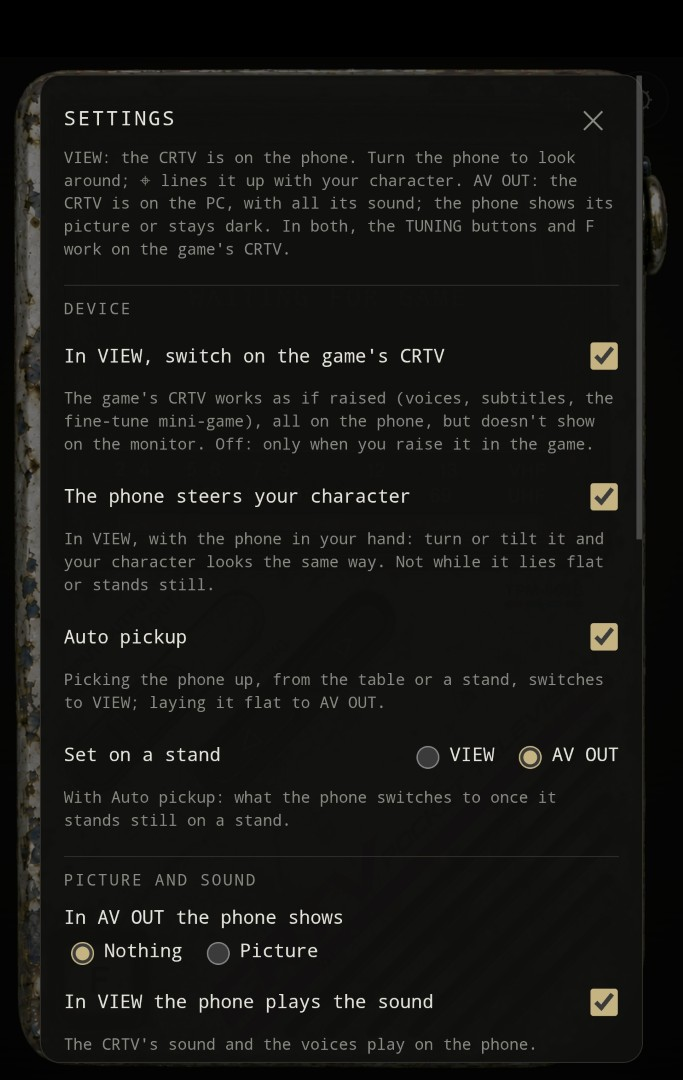
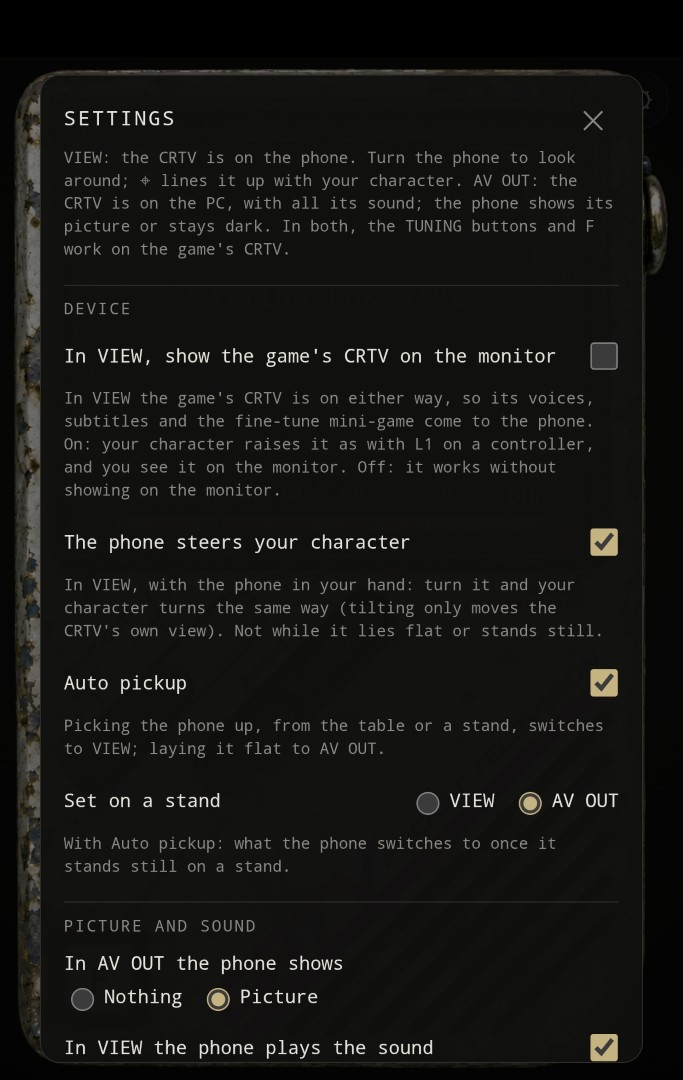
New settings screenshot as the third image; update README and troubleshooting for the sound and CRTV settings
Claude-Session: https://claude.ai/code/session_014ATbdhHixb4xMVyN4TaeB3

diff --git a/README.md b/README.md
@@ -19,6 +19,10 @@ Also on **[Nexus Mods](https://www.nexusmods.com/silenthilltownfall/mods/125)**,
   switched on, so the signals' voices, the subtitles and the fine-tune mini-game come to the phone. With this on,
   your character raises the CRTV as with L1 on a controller and you see it on the monitor; off, it works without
   showing.
+- **Sound:** in VIEW the phone plays the CRTV's sounds and the signals' voices (and their videos' sound), and with
+  **Silence it in the game** on, the game's copy of what the phone plays goes quiet, so nothing is heard twice.
+  Only what comes out of the CRTV moves to the phone: the story cutscenes' dialogue and music stay in the game.
+  The volume slider is the phone's own; at 0 the game plays its sound again.
 - **AV OUT:** the CRTV is on the PC, with all its sound; the phone mirrors the picture or stays dark, and its
   buttons still tune, and F saves / confirms the frequency.
 - **The phone steers your character** (optional, off by default): in VIEW, turning the phone turns your
@@ -26,15 +30,15 @@ Also on **[Nexus Mods](https://www.nexusmods.com/silenthilltownfall/mods/125)**,
   again and it activates automatically. Phone tilt still changes the scanner view, but does not take over
   Townfall's vertical game camera.
 - **Auto pickup** (optional): switches to VIEW when the phone is picked up (from the table or a stand) and to
-  AV OUT when it is laid flat; set on a stand, it goes to AV OUT (or stays in VIEW, as chosen).
+  AV OUT when it is laid flat; set on a stand, it goes to AV OUT by default (or stays in VIEW, as chosen).
 - **Pause:** in the game's pause menu, everything on the phone holds too.
 - Vibration for the buttons and nearby signals, and settings for every part of it.
 
 ## Screenshots
 
-| Settings | CRTV video | Monster scanner |
+| CRTV video | Monster scanner | Settings |
 | --- | --- | --- |
-| ![Townfall Companion settings](docs/images/settings.jpg) | ![CRTV video on the phone](docs/images/crtv-blue.jpg) | ![Monster scanner on the phone](docs/images/crtv-red.jpg) |
+| ![CRTV video on the phone](docs/images/crtv-blue.jpg) | ![Monster scanner on the phone](docs/images/crtv-red.jpg) | ![Townfall Companion settings](docs/images/settings.jpg) |
 
 ## The game's sound and videos
 
@@ -153,8 +157,8 @@ mod made too. UE4SS and Python stay; other mods may use them.
   networks? Your Wi-Fi set to *Private* in Windows? Use the address the window shows, not `127.0.0.1`.
 - **WAITING FOR GAME:** get into gameplay, and check that `ue4ss\UE4SS.log` has
   `[TF-COMPANION] Townfall Companion loaded`.
-- **No sound:** tap the phone once, and check the companion's window for "Game sounds unavailable" and what it
-  says to do (usually: vgmstream is missing).
+- **No sound:** tap the phone once, keep its screen on, and check the companion's window for "Game sounds
+  unavailable" and what it says to do (usually: vgmstream is missing).
 - **"Port 8790 is taken":** not an error; use the new address the window shows, or set a fixed port in
   `companion.ini`.
 - **After a game update:** UE4SS for Townfall may need an update, and possibly this mod.

diff --git a/docs/TROUBLESHOOTING.md b/docs/TROUBLESHOOTING.md
@@ -88,17 +88,26 @@ battery saver. iPhones can't vibrate from a web page.
 
 ### No sound on the phone
 
-- Tap the phone's screen once (browsers wait for a tap).
-- Settings: *In VIEW the phone plays the sound* on, and the volume up. In AV OUT the sound always plays on the PC.
+- Tap the phone's screen once (browsers wait for a tap), and keep the page open with the screen on: a phone that
+  dims its screen or switches to another app stops playing, and the game's sound comes back a few seconds later.
+- Settings: *In VIEW the phone plays the sound* on, and the *Phone volume* up (at 0 the phone is silent and the
+  game plays its own sound). In AV OUT the sound always plays on the PC.
 - The companion's window says **"Game sounds unavailable, the phone will be silent"** and why: usually
   **vgmstream** is missing. Unpack `vgmstream-win64.zip` into `TownfallCompanion\tools\vgmstream\` and start the
   companion again.
 
 ### The game still plays the CRTV sound too
 
-Turn on *Silence it in the game* in the settings. Some sounds always stay in the game: the CRTV's clicks and
-beeps, the monsters' voices, the cutscenes' music and the sound of videos in cutscenes. A CRTV video's sound
-stays in the game too when the videos aren't converted.
+Turn on *Silence it in the game* in the settings. It quiets only what the phone plays instead. Some sounds
+always stay in the game: the CRTV's clicks and beeps, the monsters' voices, and everything outside the CRTV (the
+story cutscenes' dialogue and music, the sound of videos on screens in cutscenes). A CRTV video's sound stays in
+the game too when the videos aren't converted. The *Phone volume* slider only sets the phone's own sound.
+
+### The CRTV doesn't show on the monitor in VIEW
+
+That is the default: in VIEW the game's CRTV is switched on without its raise animation, so its voices and
+mini-game work on the phone but nothing shows on the monitor. Turn on *In VIEW, show the game's CRTV on the
+monitor* and your character raises it as with L1 on a controller.
 
 ### A signal's voice is heard only in the game
 
